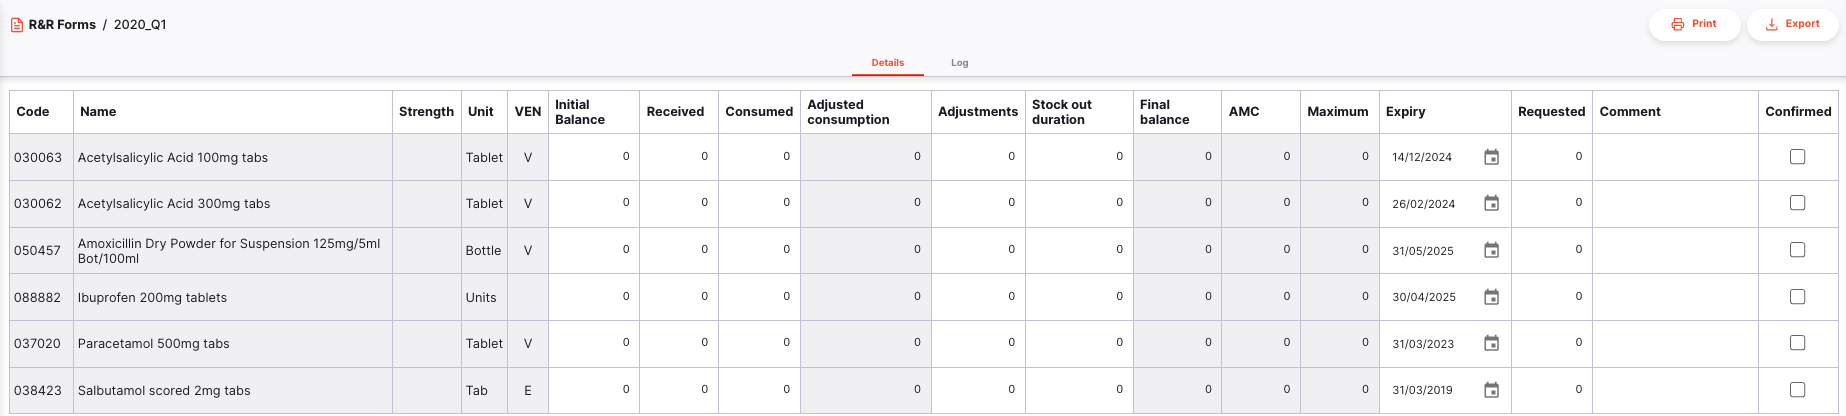
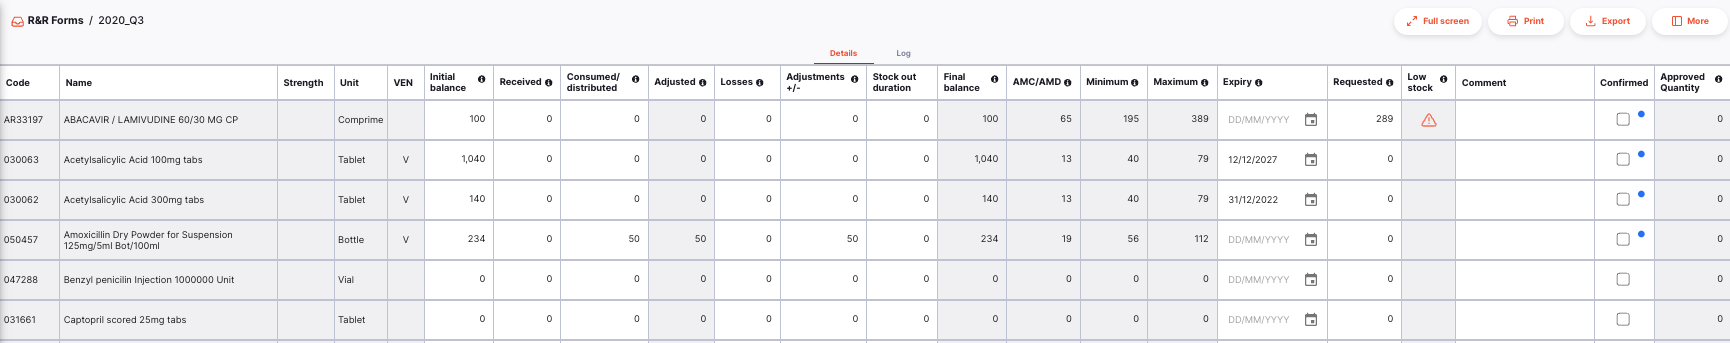
from e1440cb938e3682cf392491b4a1f9cc4774c42c6

Changed region(s): [[0.0, 0.1458, 1.0, 1.0], [0.8116, 0.0292, 0.9988, 0.0875], [0.0, 0.0292, 0.0936, 0.0875]]

diff --git a/content/docs/replenishment/r-and-r-forms.md b/content/docs/replenishment/r-and-r-forms.md
@@ -26,6 +26,8 @@ Start with configuring [periods and schedules](https://docs.msupply.org.nz/admin
 
 See the [mSupply docs](https://docs.msupply.org.nz/items:programs) for configuring programs - note though that you'll only need the start of this process, which is to create a program and associate a schedule. For R&R forms, the other program configuration aspects aren't used yet.
 
+Make sure you have the correct thresholds set up for understock and overstock in your [store preferences](https://docs.msupply.org.nz/other_stuff:virtual_stores?s%5B%5D=threshold&s%5B%5D=overstock#notification_preferences). These are used to calculate the minimum and maximum stock levels for each item.
+
 ## R&R Forms - List View
 
 Go to `Replenishment` > `R&R Forms` to view the list of R&R Forms.
@@ -72,28 +74,30 @@ Once you are happy with your inputs, click `OK` to generate the form. You will b
 
 The R&R form contains the following columns. Calculated/non-editable columns are greyed out. Columns marked with an asterisk (\*) below are editable.
 
-| Column                                | Description                                                                                                                                                                                                   |
-| :------------------------------------ | :------------------------------------------------------------------------------------------------------------------------------------------------------------------------------------------------------------ |
-| **Code**                              | Item code                                                                                                                                                                                                     |
-| **Name**                              | Item name                                                                                                                                                                                                     |
-| **Strength**                          | Strength of the item                                                                                                                                                                                          |
-| **Unit**                              | Unit of measure for the item                                                                                                                                                                                  |
-| **VEN**                               | Item VEN category: Vital (V), Essential (E), Non-essential (N)                                                                                                                                                |
-| **Initial balance\***                 | Stock on hand for this item at the start of the period. Uses the final balance from the previous R&R form (if it exists), or attempts to calculate the balance based on any transaction data in Open mSupply. |
-| **Received\***                        | Quantity of this item received during the period. Populated by quantities received through Inbound Shipments.                                                                                                 |
-| **Consumed/distributed\***            | Quantity of this item consumed during the period. Populated by quantities distributed through Outbound Shipments or Prescriptions.                                                                            |
-| **Adjusted consumption/distribution** | Consumption, adjusted for any days out of stock. Calculation is <code>Consumed x Days in period / Days in stock</code>                                                                                        |
-| **Adjustments +/-\***                 | Losses/adjustments made for this item during the period. Can be positive or negative. Populated by data from Stocktakes or Inventory Adjustments.                                                             |
-| **Stock out duration\***              | Number of days in the period where stock on hand for the item was 0.                                                                                                                                          |
-| **Final balance**                     | Stock on hand for the item at the end of the period. Calculation is <code>Initial balance + Received - Consumed + Adjustments</code>                                                                          |
-| **AMC/AMD**                           | Average monthly consumption (distribution) over the last 3 periods                                                                                                                                            |
-| **Maximum**                           | Ideal amount of stock to have on hand, requested quantity could be any amount up to this value. Calculated as <code>AMC x 2</code>                                                                            |
-| **Expiry\***                          | Expiry date of the earliest expiring available batch of this item                                                                                                                                             |
-| **Requested\***                       | Quantity to be requested in the requisition. Calculated as <code>Maximum - Final balance</code>                                                                                                               |
-| **Low stock**                         | Warning indicator if your final balance is low in comparison to the ideal stock level. Will show `!` when `Final balance` is less than half of `Maximum`, and `!!` when less than quarter                     |
-| **Comment\***                         | You can add any comments to the line as needed                                                                                                                                                                |
-| **Confirmed\***                       | Use this column to keep track of which lines are complete. Acts as the save button for changes to a line.                                                                                                     |
-| **Approved Quantity**                 | Once the R&R Form is finalised, this column will show the quantity approved by the authoriser (if authorisation is configured)                                                                                |
+| Column                     | Description                                                                                                                                                                                                   |
+| :------------------------- | :------------------------------------------------------------------------------------------------------------------------------------------------------------------------------------------------------------ |
+| **Code**                   | Item code                                                                                                                                                                                                     |
+| **Name**                   | Item name                                                                                                                                                                                                     |
+| **Strength**               | Strength of the item                                                                                                                                                                                          |
+| **Unit**                   | Unit of measure for the item                                                                                                                                                                                  |
+| **VEN**                    | Item VEN category: Vital (V), Essential (E), Non-essential (N)                                                                                                                                                |
+| **Initial balance\***      | Stock on hand for this item at the start of the period. Uses the final balance from the previous R&R form (if it exists), or attempts to calculate the balance based on any transaction data in Open mSupply. |
+| **Received\***             | Quantity of this item received during the period. Populated by quantities received through Inbound Shipments.                                                                                                 |
+| **Consumed/distributed\*** | Quantity of this item consumed during the period. Populated by quantities distributed through Outbound Shipments or Prescriptions.                                                                            |
+| **Adjusted**               | Consumption/distribution, adjusted for any days out of stock. Calculation is <code>Consumed/distributed x Days in period / Days in stock</code>                                                               |
+| **Losses\***               | Losses recorded for this item during the period. Manually entered.                                                                                                                                            |
+| **Adjustments +/-\***      | Losses/adjustments made for this item during the period. Can be positive or negative. Populated by data from Stocktakes or Inventory Adjustments.                                                             |
+| **Stock out duration\***   | Number of days in the period where stock on hand for the item was 0.                                                                                                                                          |
+| **Final balance**          | Stock on hand for the item at the end of the period. Calculation is <code>Initial balance + Received - Consumed + Adjustments</code>                                                                          |
+| **AMC/AMD**                | Average monthly consumption (distribution) over the last 3 periods                                                                                                                                            |
+| **Minimum**                | Minimum amount of stock to have on hand, requested quantity should ensure stock won't drop below this value. Calculated as <code>AMC x Threshold for understock</code> (store preference)                     |
+| **Maximum**                | Ideal amount of stock to have on hand, requested quantity could be any amount up to this value. Calculated as <code>AMC x Threshold for overstock</code> (store preference)                                   |
+| **Expiry\***               | Expiry date of the earliest expiring available batch of this item                                                                                                                                             |
+| **Requested\***            | Quantity to be requested in the requisition. Calculated as <code>Maximum - Final balance</code>                                                                                                               |
+| **Low stock**              | Warning indicator if your final balance is low in comparison to the ideal stock level. Will show `!` when `Final balance` is less than half of `Maximum`, and `!!` when less than quarter                     |
+| **Comment\***              | You can add any comments to the line as needed                                                                                                                                                                |
+| **Confirmed\***            | Use this column to keep track of which lines are complete. Acts as the save button for changes to a line.                                                                                                     |
+| **Approved Quantity**      | Once the R&R Form is finalised, this column will show the quantity approved by the authoriser (if authorisation is configured)                                                                                |
 
 ### Editing the R&R Form
 
@@ -115,6 +119,22 @@ You can print or export the R&R form by clicking the `Print` or `Export` buttons
 <div class="note">
 In order to print or export, you will need an R&R Form report configured. Please contact support for assistance.
 </div>
+
+### Detail Panel
+
+The `More` button in the top right corner of the screen will open the detail panel. Here you can see addition information about the R&R form, such as the program name and the supplier.
+
+![R&R detail panel](/docs/replenishment/images/rnr_more_info.png)
+
+You can also set a reference, which will be included in the Internal Order sent to the supplier.
+
+### Full Screen Mode
+
+There's a lot of information on the R&R form, and sometimes it can be hard to see everything at once. Click the `Full Screen` button in the top right corner of the screen to expand the view.
+
+![R&R full screen](/docs/replenishment/images/rnr_full_screen.gif)
+
+Click the `Exit` button in the top right corner of the screen to return to the normal view, or you can use the `Escape` key if you are using a keyboard.
 
 ### Finalising an R&R Form
 
